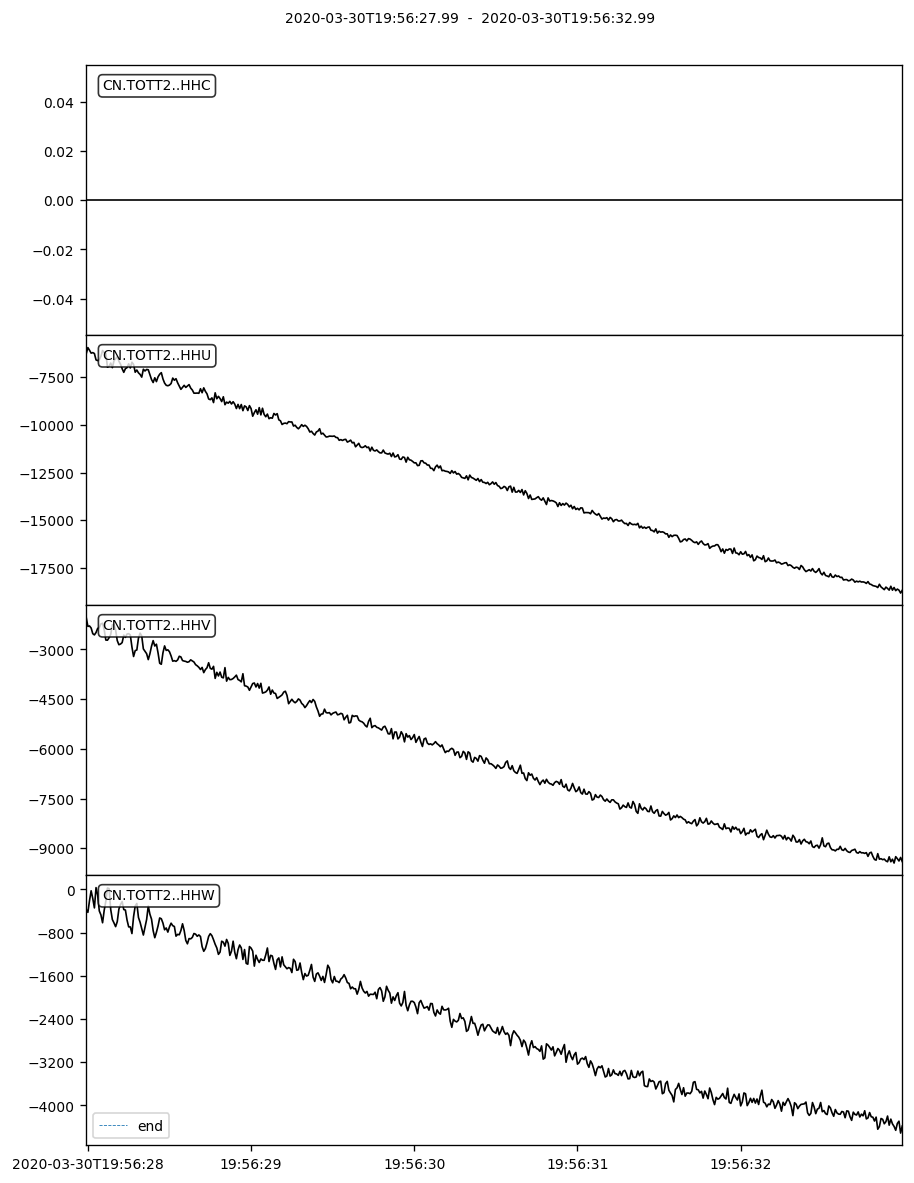
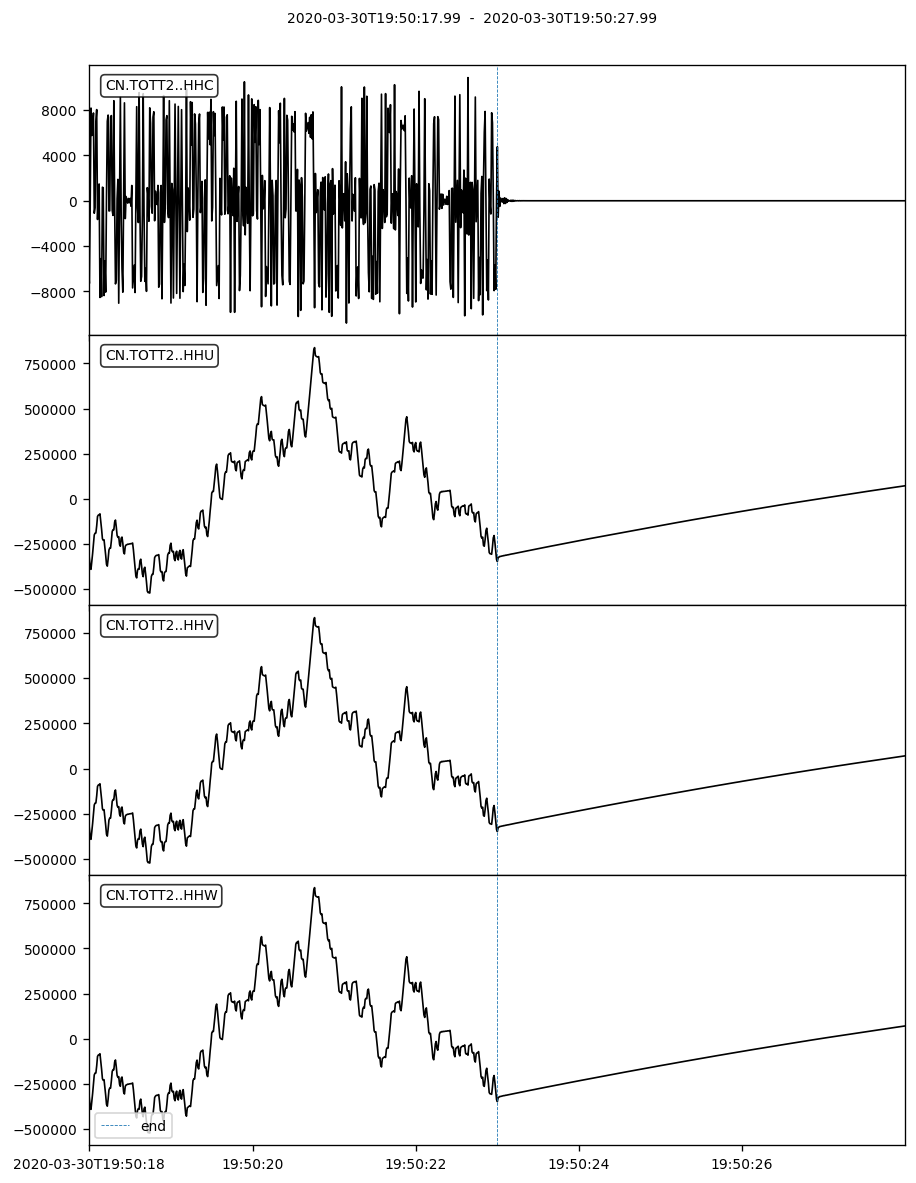
Fixed error in checking of calibration end time.

diff --git a/src/calan/calibration_analyzer.py b/src/calan/calibration_analyzer.py
@@ -843,7 +843,7 @@ class CalibrationAnalyzer():
             self.info.start = last_start + discard_s[0]
 
         first_end = min([trace.stats.endtime for trace in self.stream])
-        if self.info.end < first_end:
+        if first_end < self.info.end:
             self.logger.warning(
                 '%s data missing, advancing end to %s',
                 pd.to_timedelta(first_end - self.info.end, 's'), first_end)
